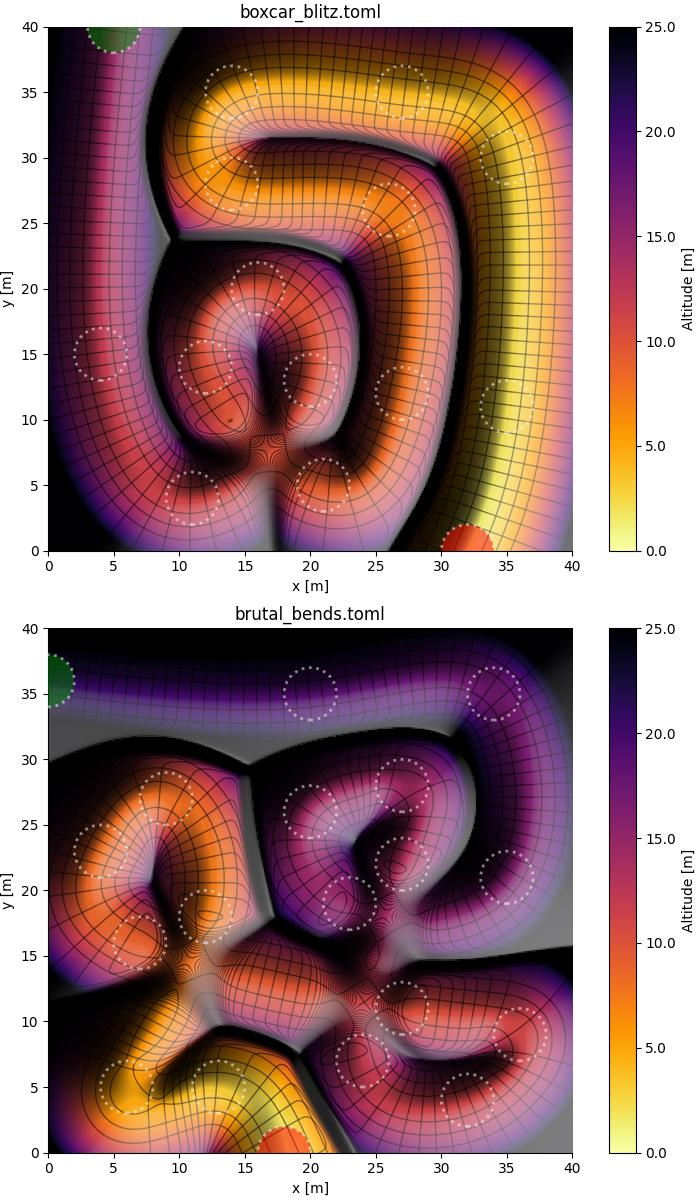
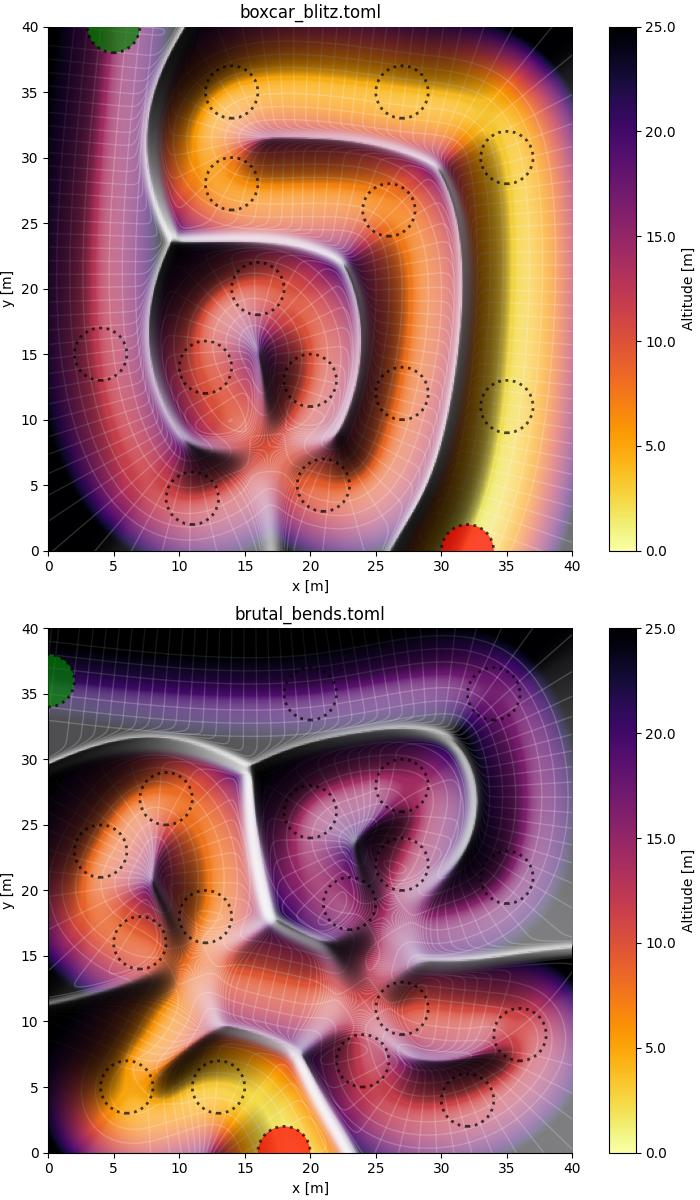
Improve depth perception of the slide graphics

diff --git a/soapboxslide.py b/soapboxslide.py
@@ -348,22 +348,22 @@ class Slide:
             fig.colorbar(cm, label="Altitude [m]", format=(lambda x, _: f"{x:.1f}"))
         if add_tracking:
             ax.contour(
-                xg, yg, track_y, levels=np.arange(-3, 4), colors="k", linewidths=1, alpha=0.5
+                xg, yg, track_y, levels=np.arange(-3, 4), colors="w", linewidths=1, alpha=0.2
             )
             ax.contour(
                 xg,
                 yg,
                 track_x,
                 levels=np.arange(-10, self.path_lengths[-1] + 10),
-                colors="k",
+                colors="w",
                 linewidths=1,
-                alpha=0.5,
+                alpha=0.2,
             )
         if add_hillshade:
             # Compute hillshading using a finite difference filter
             altitude_dx = (altitude[1:-1, 2:] - altitude[1:-1, :-2]) / (2 * xspacing)
             altitude_dy = (altitude[2:, 1:-1] - altitude[:-2, 1:-1]) / (2 * yspacing)
-            source = np.array([-1.0, 1.0, 0.0])
+            source = np.array([-1.0, 1.0, 0.35])
             source /= np.linalg.norm(source)
             cosine = (-source[0] * altitude_dx - source[1] * altitude_dy + source[2]) / np.sqrt(
                 altitude_dx**2 + altitude_dy**2 + 1
@@ -406,11 +406,11 @@ class Slide:
                     waypoint,
                     self.target_radius,
                     color=target_colors.get(i, "none"),
-                    ec="w",
+                    ec="k",
                     lw=2,
                     ls=":",
                     zorder=4,
-                    alpha=0.5,
+                    alpha=0.7,
                 )
                 ax.add_patch(circle)
         ax.set_xlim(0, self.width)

diff --git a/CHANGELOG.md b/CHANGELOG.md
@@ -6,7 +6,11 @@ and this project adheres to [Effort-based Versioning](https://jacobtomlinson.dev
 
 ## [Unreleased]
 
-(no changes yet)
+Improved graphics.
+
+### Fixed
+
+- The plotting code has been tweaked to make the depth perception more intuitive.
 
 ## [1.0.2] - 2025-10-12
 
